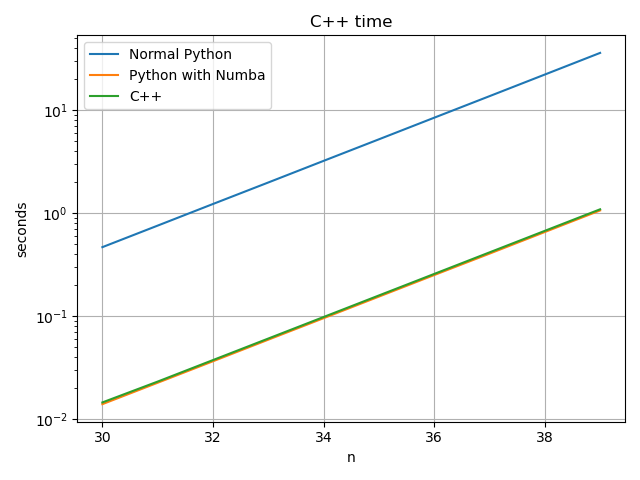
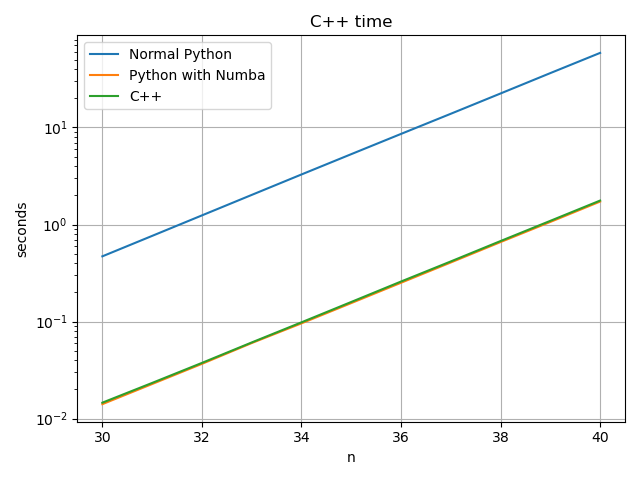
fixed plots

diff --git a/MA4/MA4_Files/MA4_2.py b/MA4/MA4_Files/MA4_2.py
@@ -39,24 +39,24 @@ def main():
 	print(fib_python_numba(5))
 	print(fib_python_numba(7))
 
-	n_list = [n for n in range(30, 40)]
-	print("Now performing timing tests for 30 to 39")
+	n_list = [n for n in range(30, 41)]
+	print("Now performing timing tests for 30 to 40")
 	py_time = []
-	for n in range(30, 40):
+	for n in range(30, 41):
 		start = pf()
 		print(fib_python(n))
 		end = pf()
 		py_time.append(end - start)
 	print("Done with python timing")
 	py_numba_time = []
-	for n in range(30, 40):
+	for n in range(30, 41):
 		start = pf()
 		print(fib_python_numba(n))
 		end = pf()
 		py_numba_time.append(end - start)
 	print("Done with numba timing")
 	cpp_time = []
-	for n in range(30, 40):
+	for n in range(30, 41):
 		start = pf()
 		f = Person(n)
 		print(f.fib())
